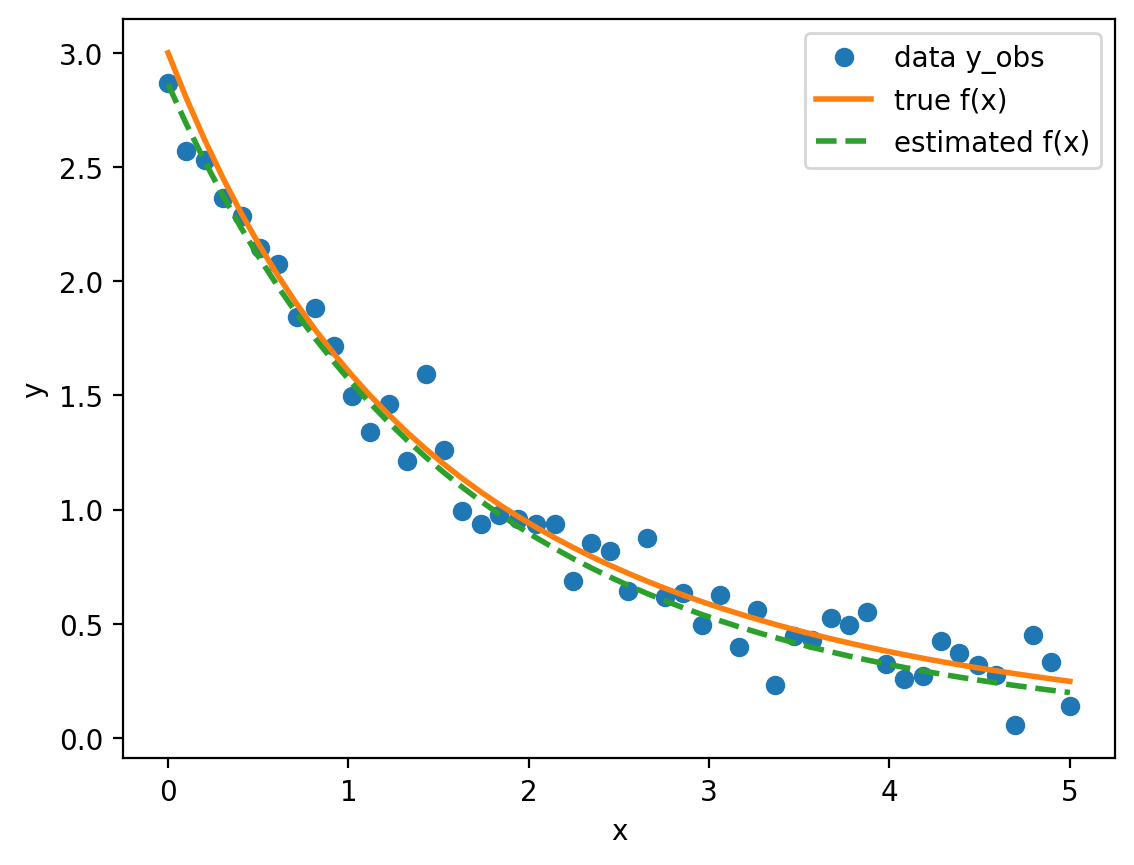
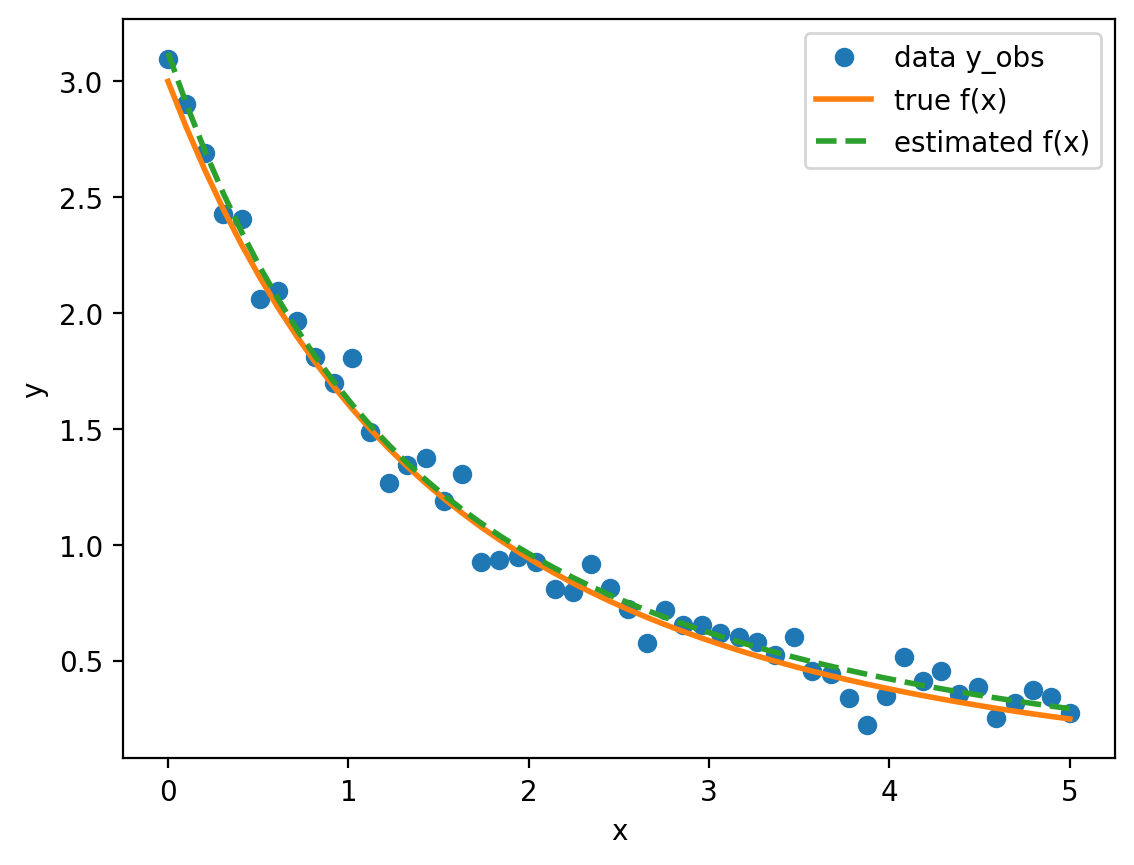
upadate

diff --git a/hw1_mengyan.py b/hw1_mengyan.py
@@ -3,6 +3,7 @@ import torch.nn as nn
 import torch.nn.functional as F
 import numpy as np
 
+
 class ThetaNet(nn.Module):
     def __init__(self, d_in=50, hidden=128):
         super().__init__()
@@ -137,6 +138,67 @@ plt.xlabel("x"); plt.ylabel("y"); plt.legend()
 plt.savefig("figs/prob1_fit.png", dpi=200, bbox_inches="tight")
 plt.close()
 
+# ----- Bootstrap for parameter uncertainty -----
+B = 100
+
+# fitted mean curve under theta_hat
+x_np = x_grid.cpu().numpy()
+def f_np(x, beta1, gamma1, beta2, gamma2):
+    return beta1*np.exp(-gamma1*x) + beta2*np.exp(-gamma2*x)
+
+y_obs_np = y_obs_raw.cpu().numpy().ravel()
+y_fit = f_np(x_np, *theta_hat)
+
+# residuals from fitted curve
+resid = y_obs_np - y_fit
+
+theta_boot = np.zeros((B, 4))
+yhat_boot  = np.zeros((B, len(x_np)))  # optional: for bands
+
+rng = np.random.default_rng(123)
+
+for b in range(B):
+    # resample residuals with replacement
+    resid_b = rng.choice(resid, size=resid.shape[0], replace=True)
+    y_b = y_fit + resid_b
+
+    # standardize using training y_mean, y_std
+    y_b_t = torch.tensor(y_b, dtype=torch.float32).unsqueeze(0)
+    y_b_z = (y_b_t - y_mean) / y_std
+
+    # predict theta for bootstrap sample
+    net.eval()
+    with torch.no_grad():
+        th_b = net(y_b_z).cpu().numpy().ravel()
+
+    theta_boot[b, :] = th_b
+    yhat_boot[b, :]  = f_np(x_np, *th_b)  # optional
+
+# summaries
+theta_mean = theta_boot.mean(axis=0)
+theta_sd   = theta_boot.std(axis=0, ddof=1)
+theta_ci   = np.quantile(theta_boot, [0.025, 0.975], axis=0)
+
+print("\nBootstrap summary (B=100)")
+names = ["beta1","gamma1","beta2","gamma2"]
+for j, nm in enumerate(names):
+    print(f"{nm:6s}: mean={theta_mean[j]:.3f}, sd={theta_sd[j]:.3f}, "
+          f"CI95=[{theta_ci[0,j]:.3f}, {theta_ci[1,j]:.3f}]")
 
 
+# 90% band for reconstructed response (optional but nice)
+lower = np.quantile(yhat_boot, 0.05, axis=0)
+upper = np.quantile(yhat_boot, 0.95, axis=0)
+
+plt.figure()
+plt.plot(x_np, y_obs_np, "o", label="data y_obs")
+plt.plot(x_np, y_true, "-", linewidth=2, label="true f(x)")
+plt.plot(x_np, y_hat,  "--", linewidth=2, label="estimated f(x)")
+plt.fill_between(x_np, lower, upper, alpha=0.2, label="bootstrap 90% band")
+plt.xlabel("x"); plt.ylabel("y"); plt.legend()
+plt.savefig("figs/prob1_fit_band.png", dpi=200, bbox_inches="tight")
+plt.close()
+
+np.savetxt("results/prob1_theta_boot.csv", theta_boot, delimiter=",",
+           header="beta1,gamma1,beta2,gamma2", comments="")
 
